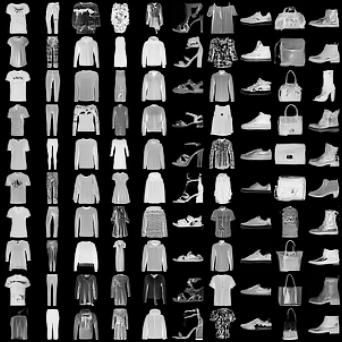
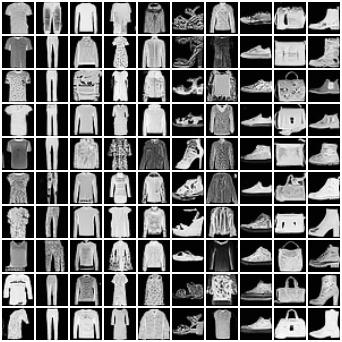
update config for diffusion and condition_diffusion

diff --git a/src/utils/callbacks/gen_sample.py b/src/utils/callbacks/gen_sample.py
@@ -64,7 +64,7 @@ class GenSample(Callback):
 
     @torch.no_grad()  # for VAE forward
     def sample(self, pl_module: LightningModule, batch: Any, mode: str):
-        images, conds = batch
+        images, _ = batch
 
         # avoid out of memory
         n_samples = min(self.grid_shape[0] * self.grid_shape[1],
@@ -89,9 +89,9 @@ class GenSample(Callback):
             elif isinstance(pl_module, DiffusionModule):
                 reals = images[:n_samples]
 
+                conds = None
                 if isinstance(pl_module, ConditionDiffusionModule):
-                    for key in conds.keys():
-                        conds[key] = conds[key][:n_samples]
+                    conds = {key: value[:n_samples] for key, value in batch[1].items()}
 
                 fakes = []
                 for _ in range(self.n_ensemble):

diff --git a/README.md b/README.md
@@ -119,11 +119,11 @@ Diffusion model is a type of generative model. Its approach is different from GA
 
 ### **4.2. Conditional Diffusion**
 
-| Dataset  | Image-Size | FID (features=2048) | Config |
+| Dataset  | Image-Size | FID (features=2048, ddim -> ddpm) | Config |
 | :---: | :---: | :---: | :---:|
-| Mnist |  32x32  | 3.86 | [Train](configs/experiment/generation/condition_diffusion/train/mnist.yaml), [Eval](configs/experiment/generation/condition_diffusion/eval/mnist.yaml)|
-| Fashion-Mnist | 32x32 | 3. | [Train](configs/experiment/generation/condition_diffusion/train/fashion.yaml), [Eval](configs/experiment/generation/condition_diffusion/eval/fashion.yaml)|
-| Cifar10 | 32x32 | 3. | [Train](configs/experiment/generation/condition_diffusion/train/cifar10.yaml), [Eval](configs/experiment/generation/condition_diffusion/eval/cifar10.yaml) |
+| Mnist |  32x32  | 3.91 -> 1.16 | [Train](configs/experiment/generation/condition_diffusion/train/mnist.yaml), [Eval](configs/experiment/generation/condition_diffusion/eval/mnist.yaml)|
+| Fashion-Mnist | 32x32 | 3.10 -> 2.15 | [Train](configs/experiment/generation/condition_diffusion/train/fashion.yaml), [Eval](configs/experiment/generation/condition_diffusion/eval/fashion.yaml)|
+| Cifar10 | 32x32 | 5.66 -> 3.37 | [Train](configs/experiment/generation/condition_diffusion/train/cifar10.yaml), [Eval](configs/experiment/generation/condition_diffusion/eval/cifar10.yaml) |
 | Gender | 64x64 | 3. | [Train](configs/experiment/generation/condition_diffusion/train), [Eval](configs/experiment/generation/condition_diffusion/eval/) |
 | CelebA | 64x64 | 3. | [Train](configs/experiment/generation/condition_diffusion/train/), [Eval](configs/experiment/generation/condition_diffusion/eval/) |
   
